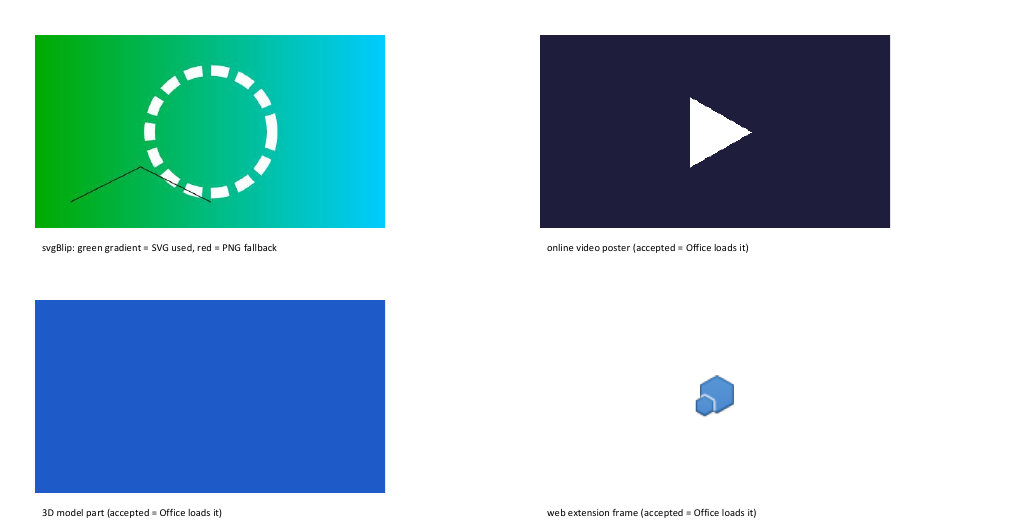
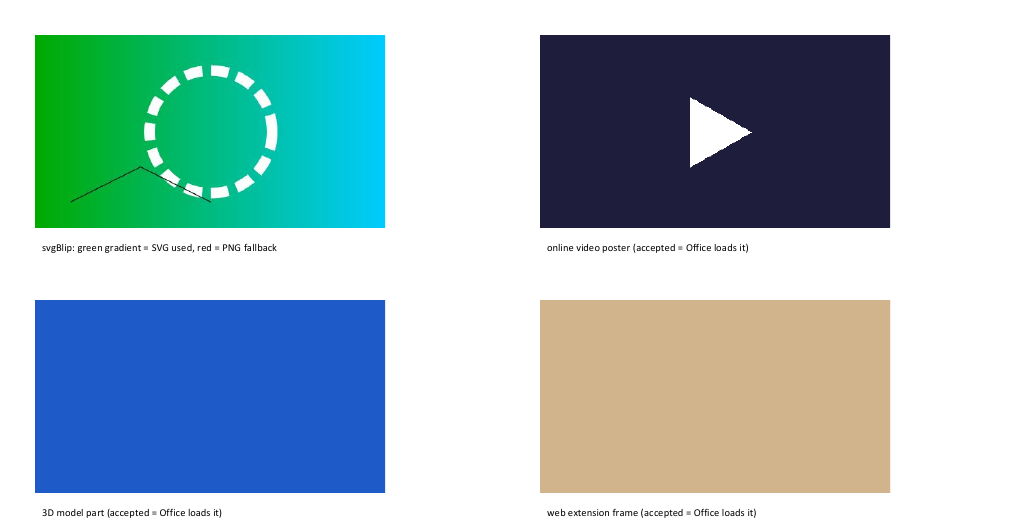
Probe: attach the web-extension snapshot to its own part

Changed region(s): [[0.5218, 0.5434, 0.8901, 0.9358]]

diff --git a/scripts/native_lab.py b/scripts/native_lab.py
@@ -693,26 +693,33 @@ def probe_web_viewer() -> Path:
     we = "http://schemas.microsoft.com/office/webextensions/webextension/2010/11"
 
     def build(_: PresentationType, slide: Slide) -> None:
-        snapshot = _part(
-            slide,
-            "/ppt/media/snap.png",
+        from pptx.opc.package import Part
+        from pptx.opc.packuri import PackURI
+
+        package = slide.part.package
+        snapshot = Part(
+            PackURI("/ppt/media/snap.png"),
             "image/png",
+            package,
             _png(Image.new("RGB", (400, 220), "tan")),
-            f"{_REL}/image",
         )
-        extension = (
-            f'<we:webextension xmlns:we="{we}" xmlns:r="{_REL}" id="{{6A1A2F8C-0C5E-4E7B-9E36-1B6C1D8C2A10}}">'
+        extension = Part(
+            PackURI("/ppt/webextensions/webextension1.xml"),
+            "application/vnd.ms-office.webextension+xml",
+            package,
+            b"",
+        )
+        embed = extension.relate_to(snapshot, f"{_REL}/image")
+        extension._blob = (
+            f'<we:webextension xmlns:we="{we}" xmlns:r="{_REL}" '
+            'id="{6A1A2F8C-0C5E-4E7B-9E36-1B6C1D8C2A10}">'
             '<we:reference id="WA104295837" version="1.0.0.0" store="en-US" storeType="OMEX"/>'
             '<we:alternateReferences/><we:properties><we:property name="url" '
             'value="&quot;https://example.com&quot;"/></we:properties><we:bindings/>'
-            f'<we:snapshot r:embed="{snapshot}"/></we:webextension>'
+            f'<we:snapshot r:embed="{embed}"/></we:webextension>'
         ).encode()
-        rid = _part(
-            slide,
-            "/ppt/webextensions/webextension1.xml",
-            "application/vnd.ms-office.webextension+xml",
-            extension,
-            "http://schemas.microsoft.com/office/2011/relationships/webextension",
+        rid = slide.part.relate_to(
+            extension, "http://schemas.microsoft.com/office/2011/relationships/webextension"
         )
         slide.shapes._spTree.append(
             etree.fromstring(

diff --git a/docs/native-recipes.md b/docs/native-recipes.md
@@ -46,7 +46,7 @@ converts it with the real Office engine and deletes it. Two things to know:
 | `a:blip` + `asvg:svgBlip` extension (PNG fallback) | **draws the SVG as vector**: gradients, `stroke-dasharray`, paths all exact | uses the PNG fallback | canvas/SVG interim, vector embeds |
 | `p:pic` with `a:videoFile r:link` to an external URL (online video) | accepted; shows the poster | poster | `<iframe>` to YouTube/Vimeo |
 | 3-D model part (`am3d:model3d`, GLB) with PNG fallback | accepted; server render shows the raster | fallback | 3-D content |
-| Web extension frame (`we:webextensionref`) | accepted; server render shows an add-in placeholder, not the snapshot | ignored | `<iframe>` to a web page (live only in desktop PowerPoint) |
+| Web extension frame (`we:webextensionref`) | accepted; renders its snapshot image (the add-in itself only runs in desktop PowerPoint) | ignored | `<iframe>` to a web page (live only in desktop PowerPoint) |
 
 ## What is not possible
 
